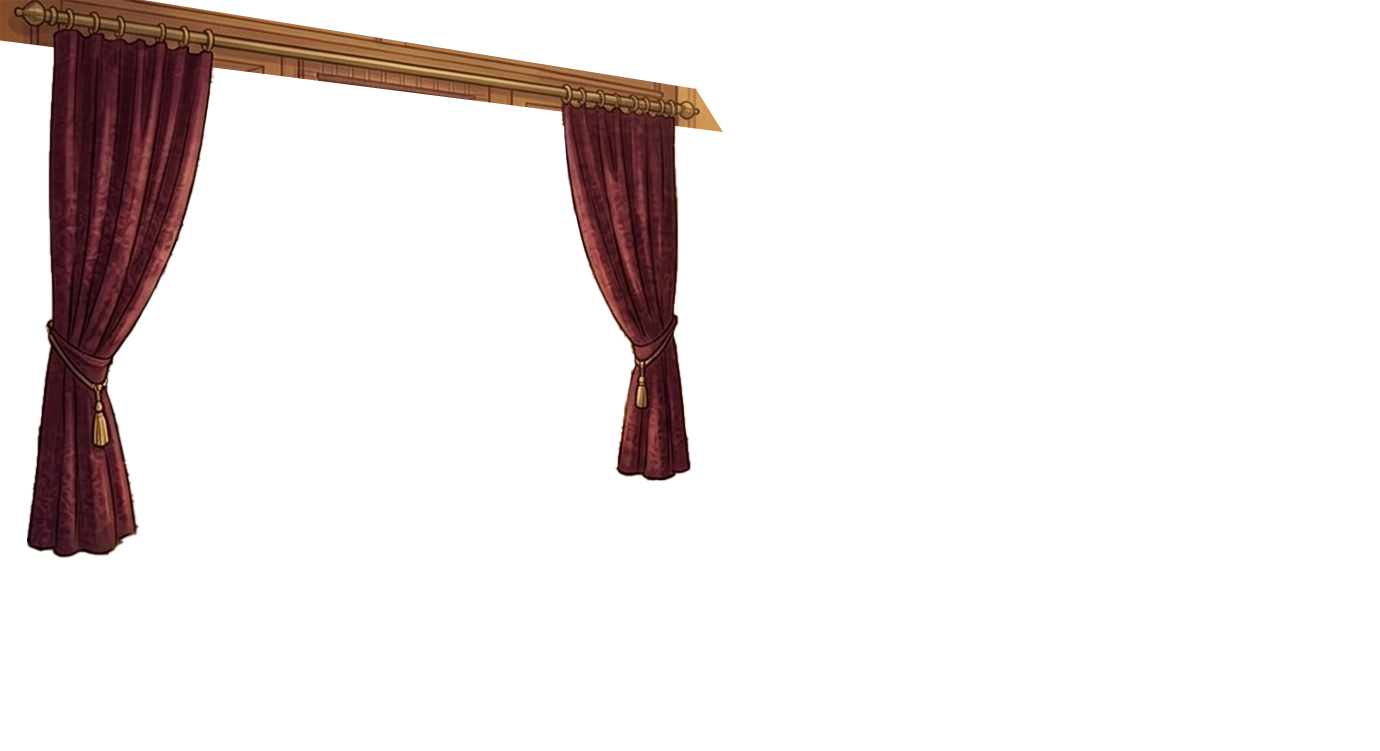
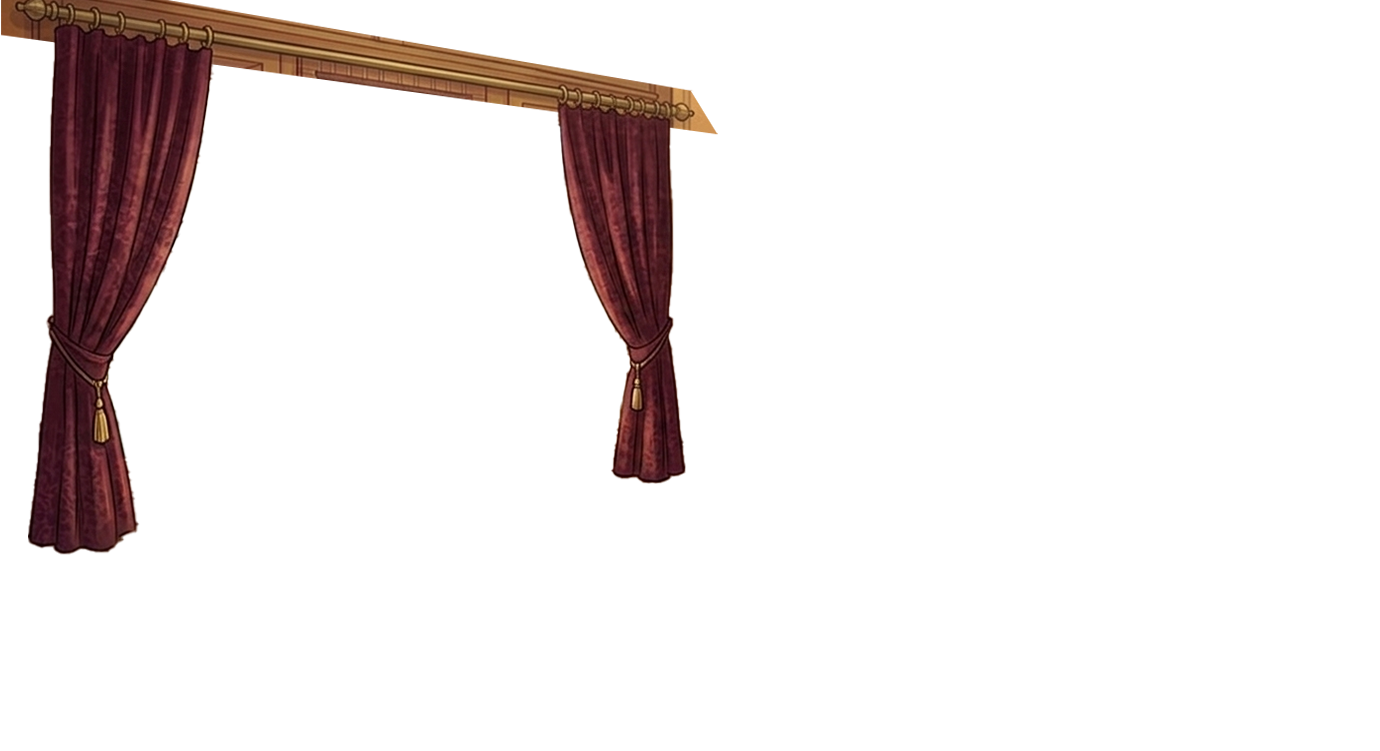
qwe

diff --git a/petgame_room_config.py b/petgame_room_config.py
@@ -168,7 +168,7 @@ ROOM_ITEMS = {
             'name':      'Fotoliu',
             'desc':      'Fotoliu cu masută de cafea.',
             'price':     700,
-            'file':      'Fotoliu.png',
+            'file':      'fotoliu.png',
             'default':   False,
             'clickable': False,
             'action':    None,
@@ -183,7 +183,7 @@ ROOM_ITEMS = {
             'name':      'Raft cu Cărți',
             'desc':      'Un raft cu cărți.',
             'price':     500,
-            'file':      'Carti.png',
+            'file':      'carti.png',
             'default':   False,
             'clickable': False,
             'action':    None,
@@ -198,7 +198,7 @@ ROOM_ITEMS = {
             'name':      'Candelabru',
             'desc':      'Candelabru din alamă aurie.',
             'price':     700,
-            'file':      'Candelabru.png',
+            'file':      'candelabru.png',
             'default':   False,
             'clickable': False,
             'action':    None,